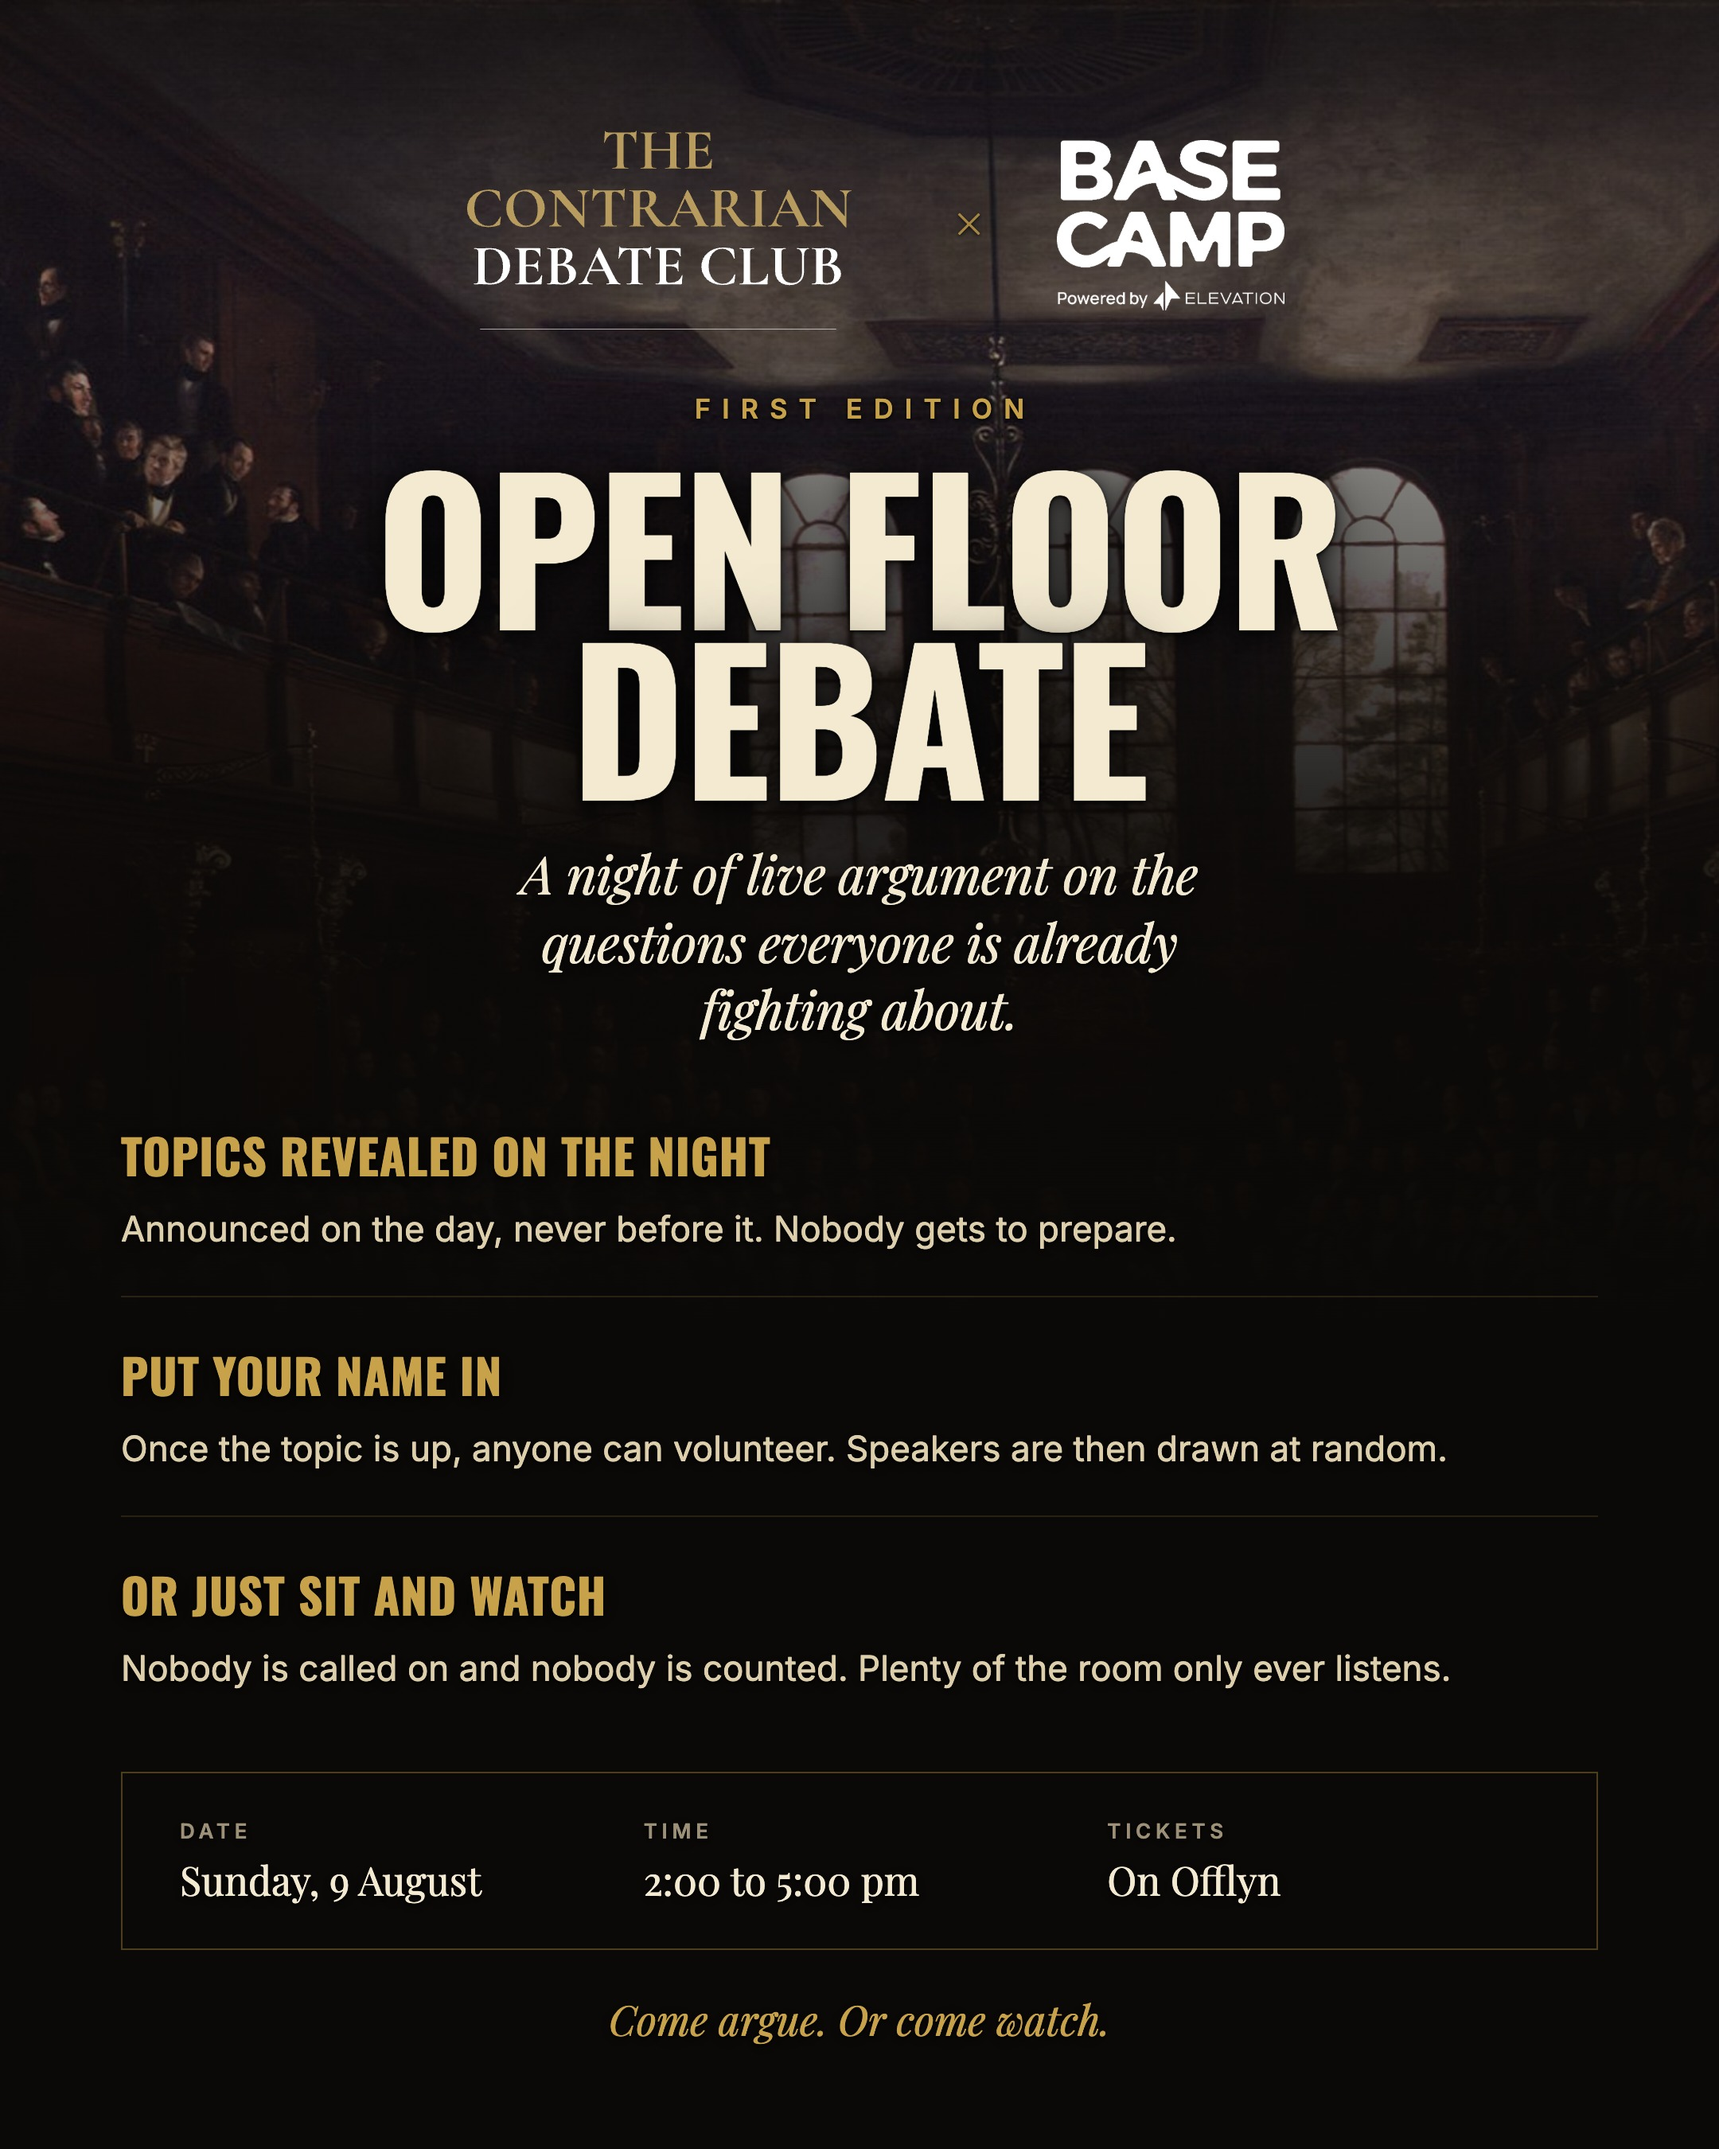
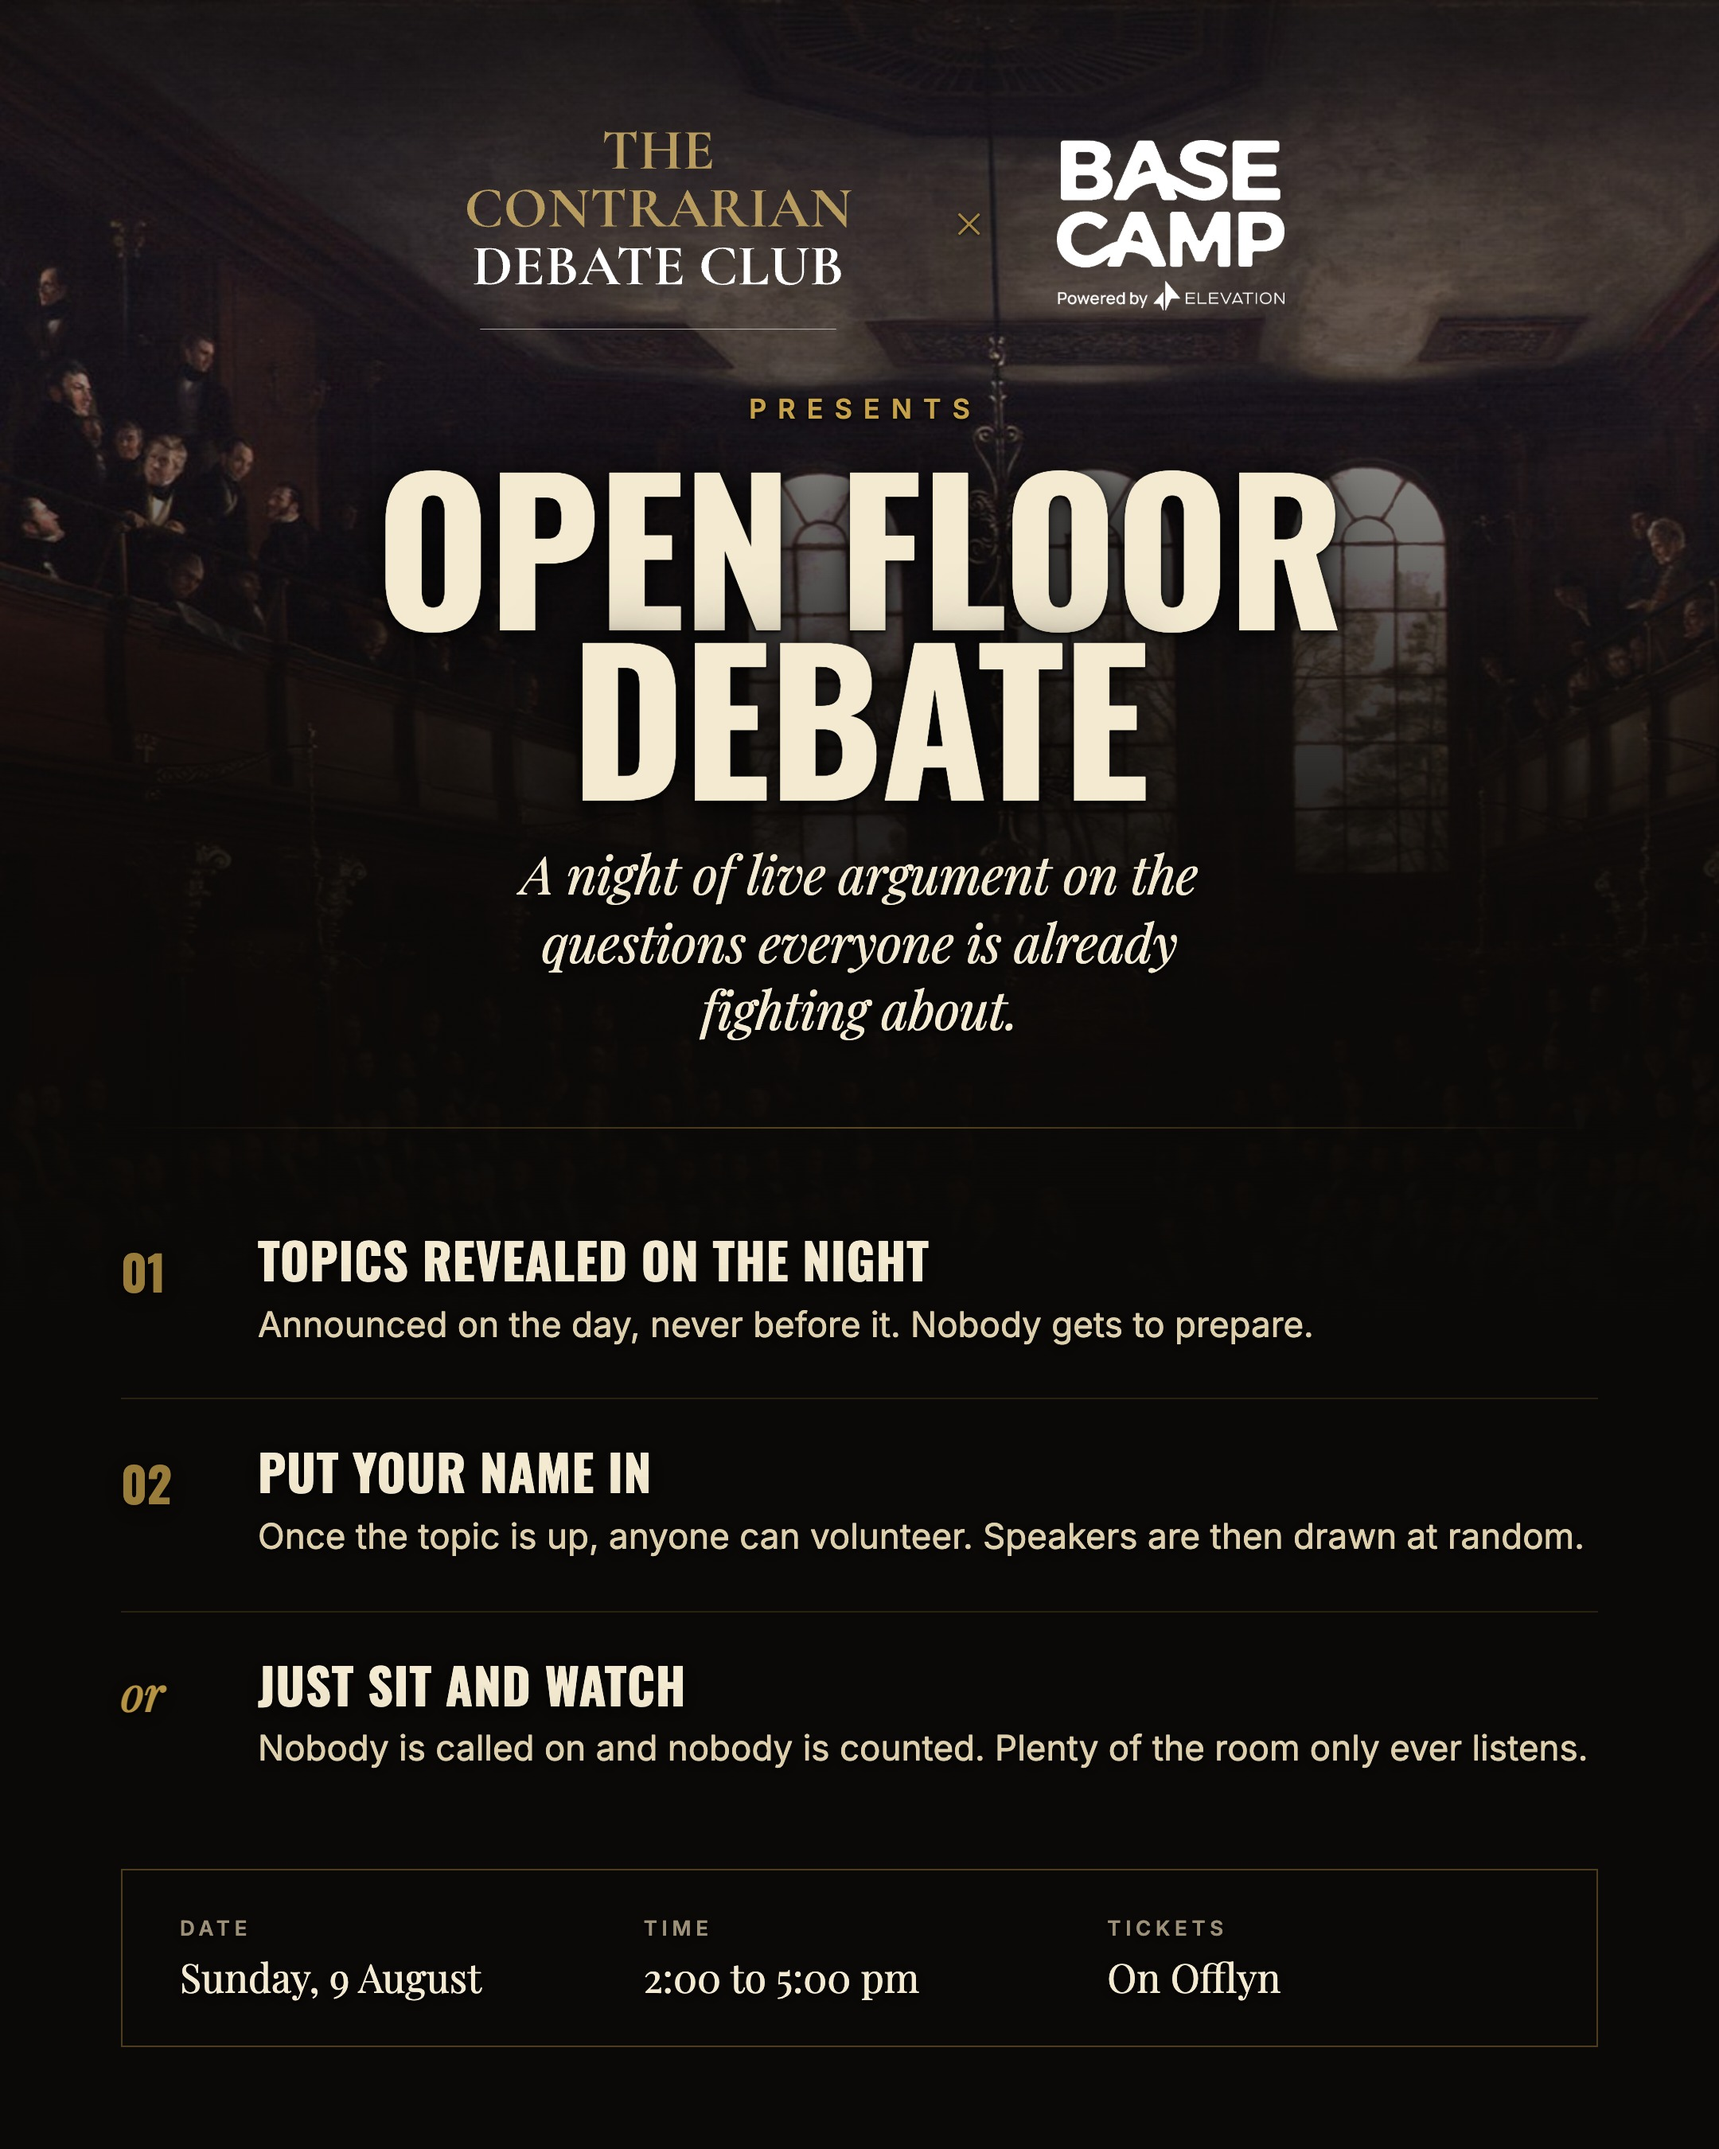
refactor(posters): restructure the Open Floor poster
Kicker becomes 'Presents' and the closing line goes.

The format block now hangs off a marker spine. The first two rows are
numbered because they happen in that order; the third is marked 'or' in
italic rather than '03', because sitting it out is not step three of the
process, it is the way around it. Someone scanning only the spine still gets
the answer to the question the whole deck is built around.

A full-width rule now splits the announcement from the working detail. The
top half is centred and ceremonial, the bottom ranged left and meant to be
scanned. Running both alignments down one undivided column was what made the
previous cut feel unsettled.

diff --git a/posters/works/2026-08-09-open-floor-debate/slides.tsx b/posters/works/2026-08-09-open-floor-debate/slides.tsx
@@ -650,33 +650,64 @@ function CoBrand({ partner, height = 128 }: { partner: string; height?: number }
   );
 }
 
-/** One line of the format, as a labelled rule. Three of these carry the whole
- *  mechanic: when topics appear, how you get picked, and how to opt out. */
-function Beat({ label, body }: { label: string; body: string }) {
+/** One line of the format, hung off a marker in the left column.
+ *
+ *  The marker is the point of this block. The first two rows are numbered
+ *  because they happen in that order; the third is marked "or", not "03",
+ *  because sitting it out is not step three of the process, it is the way
+ *  around the process. Anyone scanning the poster reads the spine first and
+ *  gets the whole answer from it. */
+function Beat({ marker, label, body }: { marker: string; label: string; body: string }) {
+  const isOr = marker.toLowerCase() === "or";
   return (
-    <div style={{ display: "flex", flexDirection: "column", gap: 9 }}>
+    <div style={{ display: "grid", gridTemplateColumns: "78px 1fr", gap: 8 }}>
       <span
-        style={{
-          fontFamily: "var(--cc-font-condensed)",
-          fontWeight: 700,
-          textTransform: "uppercase",
-          fontSize: 30,
-          letterSpacing: "0.015em",
-          color: GOLD,
-        }}
+        style={
+          isOr
+            ? {
+                fontFamily: "var(--cc-font-display)",
+                fontStyle: "italic",
+                fontWeight: 600,
+                fontSize: 30,
+                color: GOLD,
+                opacity: 0.9,
+              }
+            : {
+                fontFamily: "var(--cc-font-condensed)",
+                fontWeight: 700,
+                fontSize: 30,
+                color: GOLD,
+                opacity: 0.75,
+              }
+        }
       >
-        {label}
+        {marker}
       </span>
-      <span
-        style={{
-          fontFamily: "var(--cc-font-ui)",
-          fontSize: 22,
-          lineHeight: 1.42,
-          color: "var(--cc-parchment)",
-        }}
-      >
-        {body}
-      </span>
+      <div style={{ display: "flex", flexDirection: "column", gap: 9 }}>
+        <span
+          style={{
+            fontFamily: "var(--cc-font-condensed)",
+            fontWeight: 700,
+            textTransform: "uppercase",
+            fontSize: 31,
+            letterSpacing: "0.015em",
+            lineHeight: 1.02,
+            color: "var(--cc-ivory)",
+          }}
+        >
+          {label}
+        </span>
+        <span
+          style={{
+            fontFamily: "var(--cc-font-ui)",
+            fontSize: 22,
+            lineHeight: 1.44,
+            color: "var(--cc-parchment)",
+          }}
+        >
+          {body}
+        </span>
+      </div>
     </div>
   );
 }
@@ -689,7 +720,7 @@ export function Poster({
 }: {
   copy: Copy;
   partner: string;
-  beats: { label: string; body: string }[];
+  beats: { marker: string; label: string; body: string }[];
   details: { label: string; value: string }[];
 }) {
   return (
@@ -758,21 +789,30 @@ export function Poster({
           </p>
         </div>
 
-        {/* the mechanic, three lines, in the order it happens */}
+        {/* A full-width rule splits the poster in two: the announcement above,
+            which is centred and ceremonial, and the working detail below,
+            which is ranged left and meant to be scanned. Mixing the two
+            alignments in one undivided column was what made the earlier cut
+            feel unsettled. */}
+        <div style={{ marginTop: 46 }}>
+          <hr className="rule" style={{ border: 0 }} />
+        </div>
+
+        {/* the mechanic, hung off its marker spine */}
         <div
           style={{
             flex: 1,
             display: "flex",
             flexDirection: "column",
             justifyContent: "center",
-            gap: 26,
+            gap: 30,
           }}
         >
           {beats.map((b, i) => (
             <div
               key={i}
               style={{
-                paddingTop: i === 0 ? 0 : 26,
+                paddingTop: i === 0 ? 0 : 30,
                 borderTop: i === 0 ? "none" : "1px solid rgba(200,162,74,0.16)",
               }}
             >
@@ -803,13 +843,6 @@ export function Poster({
             </div>
           ))}
         </div>
-
-        <span
-          className="closing"
-          style={{ fontSize: 26, marginTop: 26, textAlign: "center" }}
-        >
-          {copy.closing}
-        </span>
       </div>
     </div>
   );

diff --git a/posters/works/2026-08-09-open-floor-debate/spec.tsx b/posters/works/2026-08-09-open-floor-debate/spec.tsx
@@ -160,25 +160,27 @@ const work: WorkSpec = {
       render: () => (
         <Poster
           copy={{
-            kicker: "First Edition",
+            kicker: "Presents",
             title: "Open Floor Debate",
             oneLiner:
               "A night of live argument on the questions everyone is already fighting about.",
-            closing: "Come argue. Or come watch.",
             image: { src: chamber, treatment: "lift", position: "center 46%" },
           }}
           partner={basecamp}
           beats={[
             {
+              marker: "01",
               label: "Topics revealed on the night",
               body: "Announced on the day, never before it. Nobody gets to prepare.",
             },
             {
+              marker: "02",
               label: "Put your name in",
               body: "Once the topic is up, anyone can volunteer. Speakers are then drawn at random.",
             },
             {
-              label: "Or just sit and watch",
+              marker: "or",
+              label: "Just sit and watch",
               body: "Nobody is called on and nobody is counted. Plenty of the room only ever listens.",
             },
           ]}
